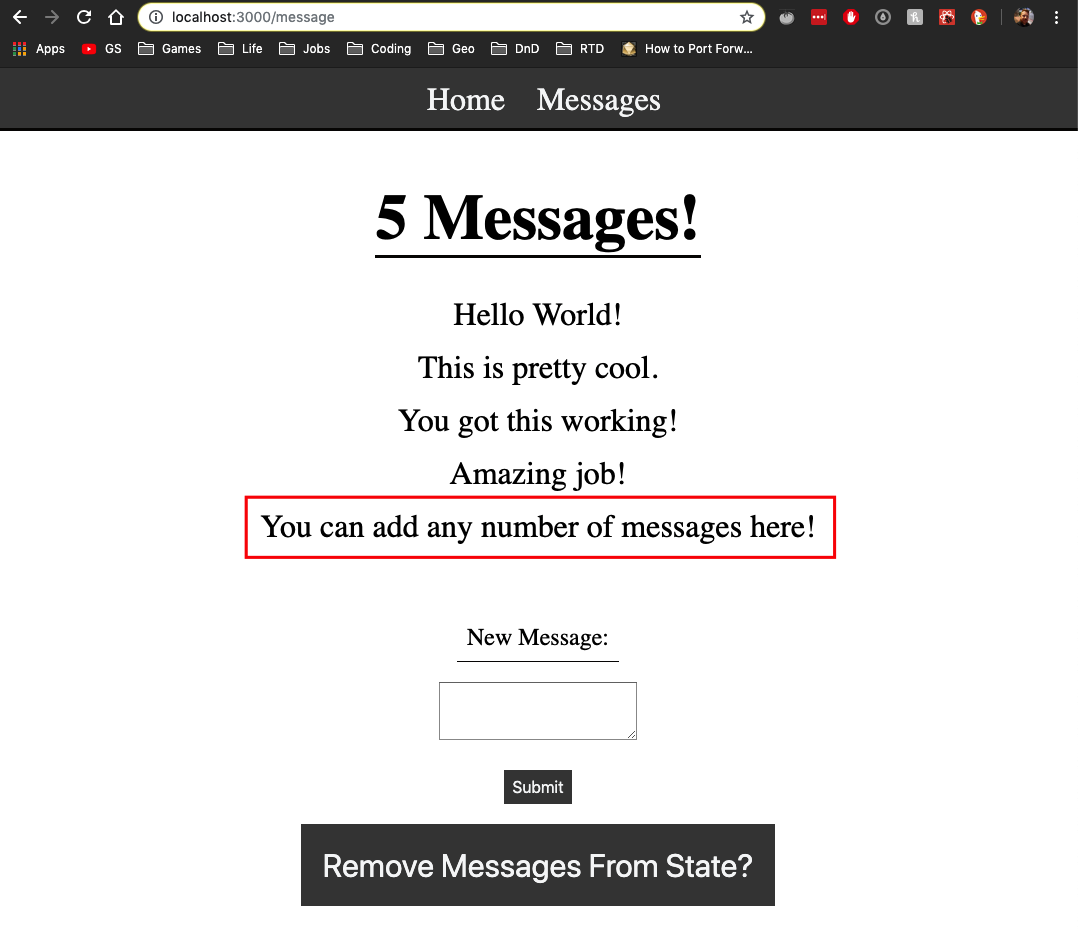
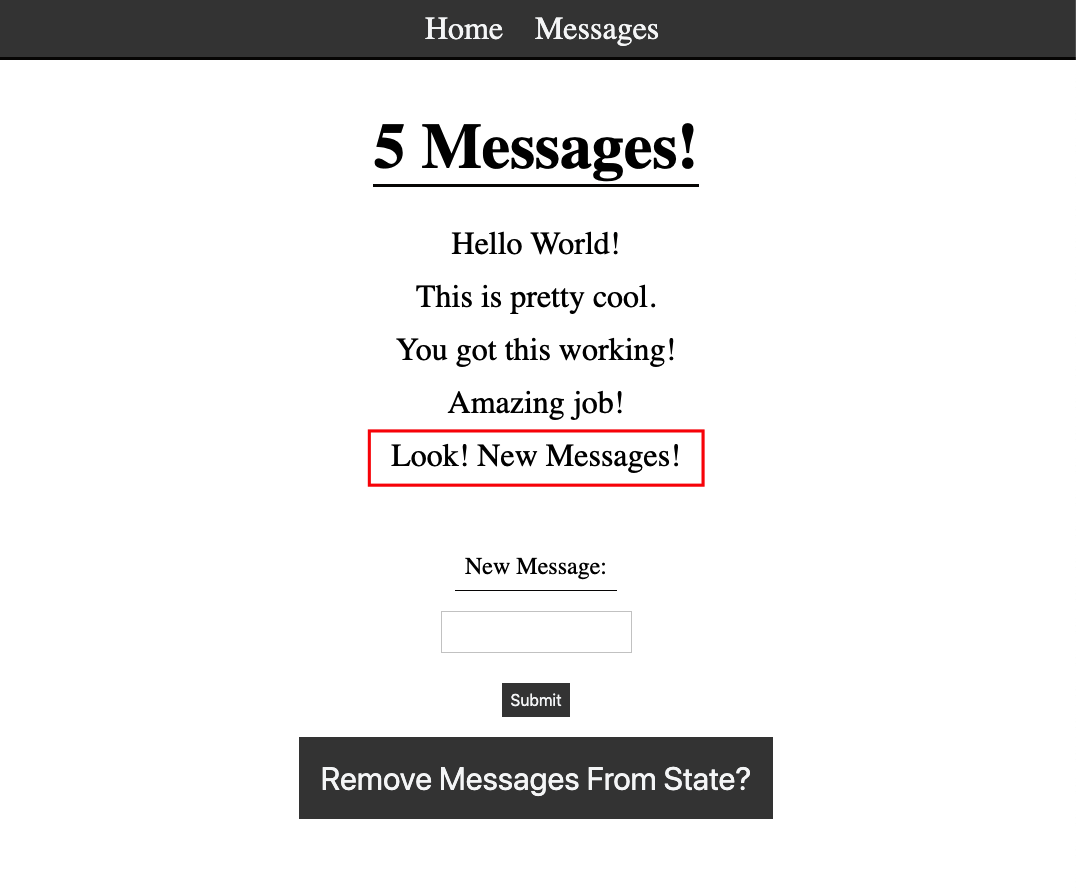
Updated images. Updated text input to accept the enter key input

Changed region(s): [[0.2147, 0.4375, 0.7974, 1.0], [0.0, 0.0, 1.0, 0.2812], [0.368, 0.3125, 0.6441, 0.4062]]

diff --git a/client/src/app/pages/message/CreateMessage.js b/client/src/app/pages/message/CreateMessage.js
@@ -54,9 +54,9 @@ class CreateMessage extends Component {
       <div id="createMessageContainer">
         <form className="formFieldContainer" onSubmit={this.handleEmptyFields}>
           <div className="formField formTitle"> New Message: </div>
-          <textarea className="formField formTextarea" type="textarea" value={this.state.newMessage} onChange={this.handleMessageChange} />
+          <input className="formField formTextarea" type="text" value={this.state.newMessage} onChange={this.handleMessageChange} />
           <div className="formField">
-            <input className="formButton" type="submit" value="Submit" />
+          <input className="formButton" type="submit" value="Submit" />
           </div>
         </form>
       </div>
